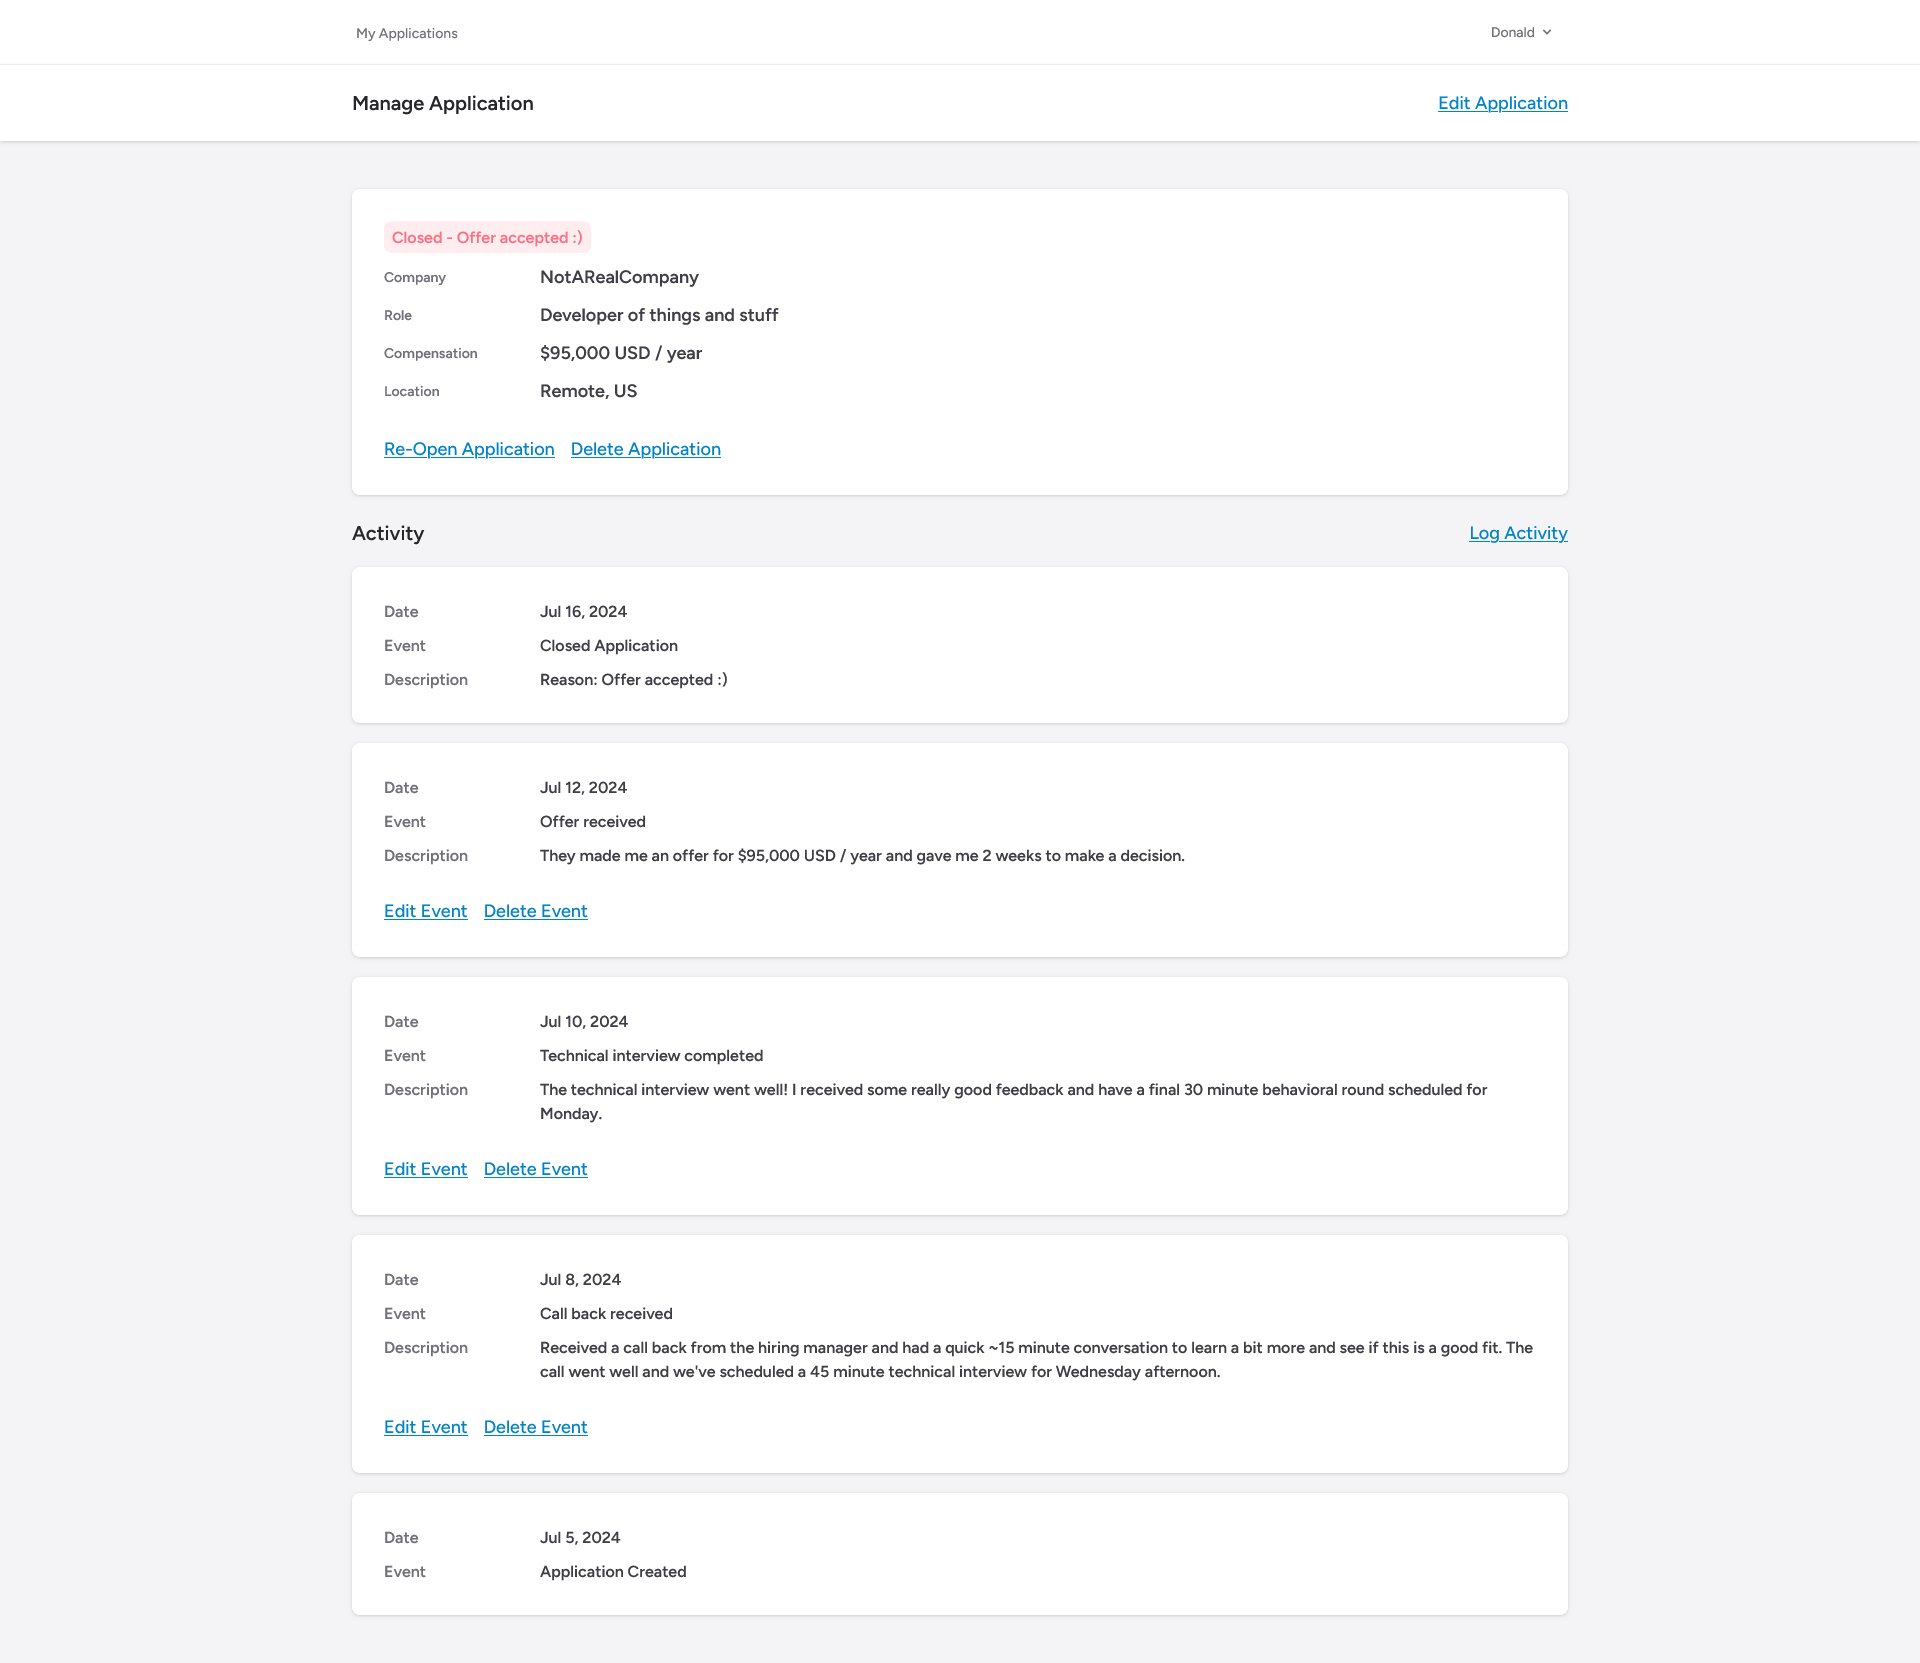
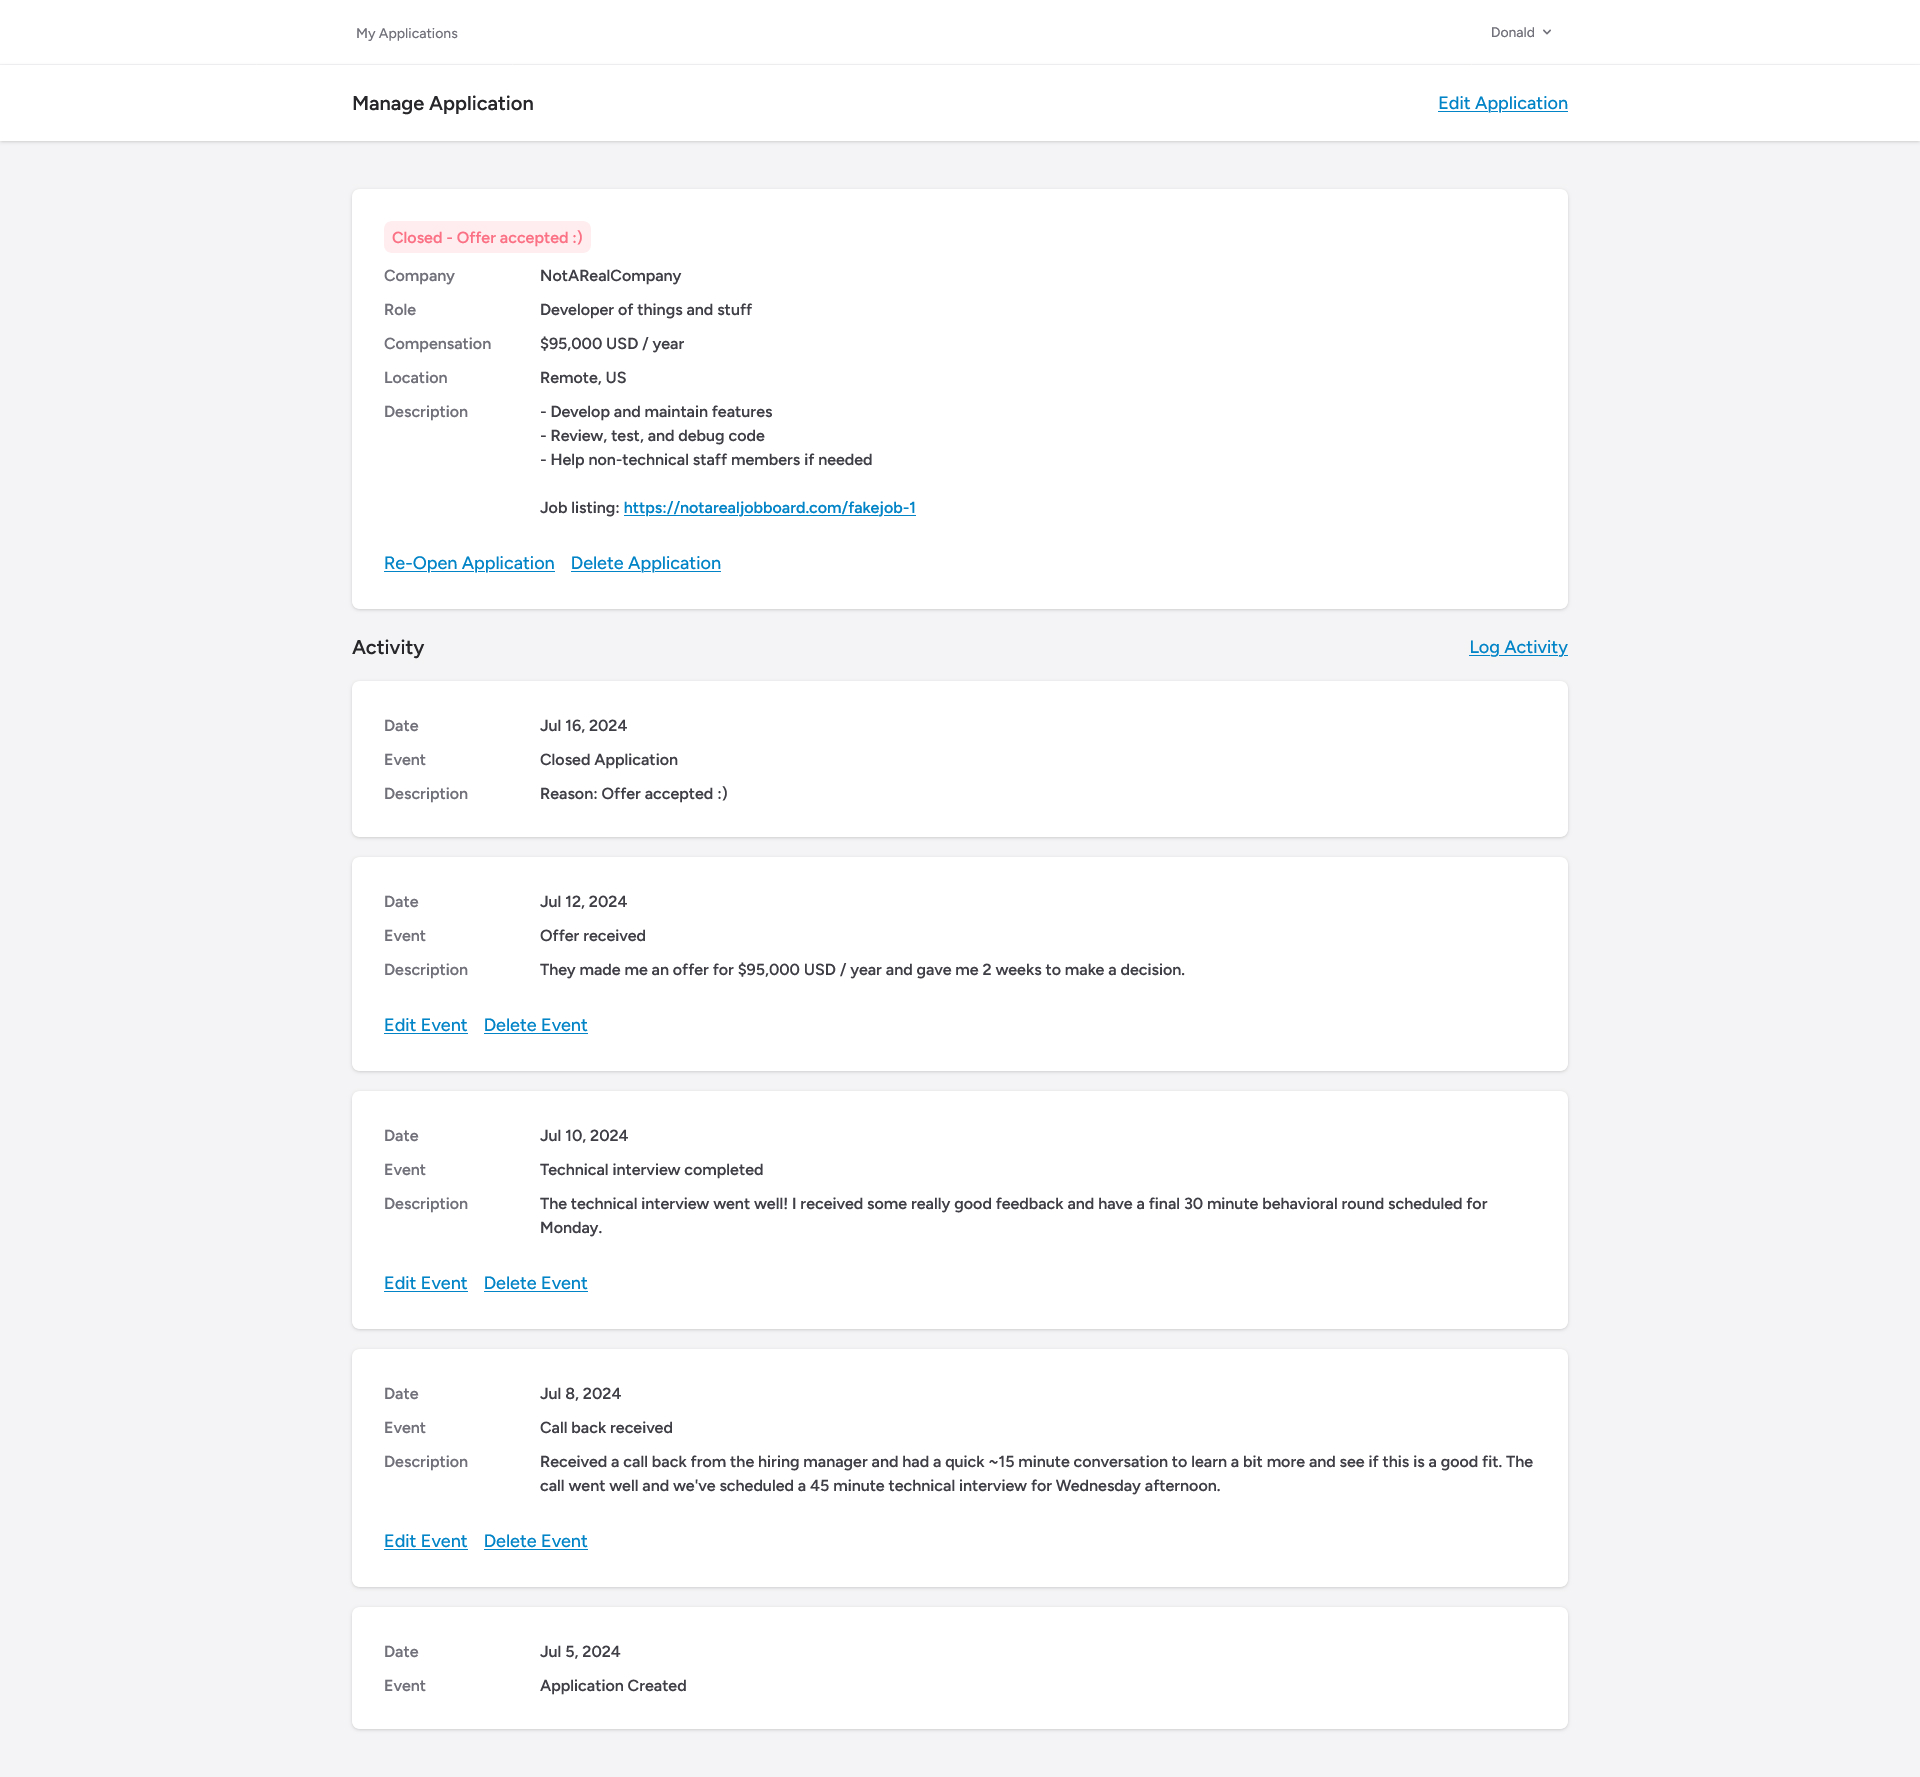
Add description field to Application model

diff --git a/resources/views/components/application-card.blade.php b/resources/views/components/application-card.blade.php
@@ -10,22 +10,28 @@
             In Progress
         </div>
     @endif
-    <div class="flex items-center gap-4">
-        <p class="min-w-[140px] text-zinc-500 text-sm">Company</p>
-        <p class="text-zinc-700 text-lg">{{ $application->company }}</p>
+    <div class="flex items-start gap-4">
+        <p class="min-w-[140px] text-zinc-500">Company</p>
+        <p class="text-zinc-700">{{ $application->company }}</p>
     </div>
-    <div class="flex items-center gap-4">
-        <p class="min-w-[140px] text-zinc-500 text-sm">Role</p>
-        <p class="text-zinc-700 text-lg">{{ $application->role }}</p>
+    <div class="flex items-start gap-4">
+        <p class="min-w-[140px] text-zinc-500">Role</p>
+        <p class="text-zinc-700">{{ $application->role }}</p>
     </div>
-    <div class="flex items-center gap-4">
-        <p class="min-w-[140px] text-zinc-500 text-sm">Compensation</p>
-        <p class="text-zinc-700 text-lg">{{ $application->compensation }}</p>
+    <div class="flex items-start gap-4">
+        <p class="min-w-[140px] text-zinc-500">Compensation</p>
+        <p class="text-zinc-700">{{ $application->compensation }}</p>
     </div>
-    <div class="flex items-center gap-4">
-        <p class="min-w-[140px] text-zinc-500 text-sm">Location</p>
-        <p class="text-zinc-700 text-lg">{{ $application->location }}</p>
+    <div class="flex items-start gap-4">
+        <p class="min-w-[140px] text-zinc-500">Location</p>
+        <p class="text-zinc-700">{{ $application->location }}</p>
     </div>
+    @if ($application->description)
+        <div class="flex items-start gap-4">
+            <p class="min-w-[140px] text-zinc-500">Description</p>
+            <p class="text-zinc-700 whitespace-pre-line" data-extract-links>{{ $application->description }}</p>
+        </div>
+    @endif
 
     @if (!empty($links))
         <div class="flex items-center gap-4">

diff --git a/resources/views/applications/edit.blade.php b/resources/views/applications/edit.blade.php
@@ -78,6 +78,25 @@
 
                                 <x-input-error class="mt-2" :messages="$errors->get('location')" />
                             </div>
+
+                            <div>
+                                <x-input-label for="description" :value="__('Description (optional)')" />
+                                <x-textarea-input
+                                    id="description"
+                                    name="description" 
+                                    type="text" 
+                                    class="mt-1 block w-full" 
+                                    :value="old('description', $application->description)"
+                                />
+                                <p class="block font-medium text-sm text-zinc-700 mt-1">
+                                    The description fields preserves whitespace and extracts urls that match the following pattern:
+                                    <span class="bg-zinc-300 rounded-md px-2 inline-block text-zinc-900">
+                                        http://&lt;text&gt;, https://&lt;text&gt;
+                                    </span>
+                                </p>
+
+                                <x-input-error class="mt-2" :messages="$errors->get('description')" />
+                            </div>
                     
                             <div class="flex items-center gap-4">
                                 <x-primary-button>{{ __('Save Application') }}</x-primary-button>

diff --git a/resources/views/applications/create.blade.php b/resources/views/applications/create.blade.php
@@ -77,6 +77,25 @@
 
                                 <x-input-error class="mt-2" :messages="$errors->get('location')" />
                             </div>
+
+                            <div>
+                                <x-input-label for="description" :value="__('Description (optional)')" />
+                                <x-textarea-input
+                                    id="description"
+                                    name="description" 
+                                    type="text" 
+                                    class="mt-1 block w-full" 
+                                    :value="old('description')"
+                                />
+                                <p class="block font-medium text-sm text-zinc-700 mt-1">
+                                    The description fields preserves whitespace and extracts urls that match the following pattern:
+                                    <span class="bg-zinc-300 rounded-md px-2 inline-block text-zinc-900">
+                                        http://&lt;text&gt;, https://&lt;text&gt;
+                                    </span>
+                                </p>
+
+                                <x-input-error class="mt-2" :messages="$errors->get('description')" />
+                            </div>
                     
                             <div class="flex items-center gap-4">
                                 <x-primary-button>{{ __('Save Application') }}</x-primary-button>

diff --git a/resources/views/applications/events/edit.blade.php b/resources/views/applications/events/edit.blade.php
@@ -46,6 +46,12 @@
                                     class="mt-1 block w-full" 
                                     :value="old('description', $event->description)"
                                 />
+                                <p class="block font-medium text-sm text-zinc-700 mt-1">
+                                    The description fields preserves whitespace and extracts urls that match the following pattern:
+                                    <span class="bg-zinc-300 rounded-md px-2 inline-block text-zinc-900">
+                                        http://&lt;text&gt;, https://&lt;text&gt;
+                                    </span>
+                                </p>
 
                                 <x-input-error class="mt-2" :messages="$errors->get('description')" />
                             </div>

diff --git a/resources/views/applications/events/create.blade.php b/resources/views/applications/events/create.blade.php
@@ -45,6 +45,12 @@
                                     class="mt-1 block w-full" 
                                     :value="old('description')"
                                 />
+                                <p class="block font-medium text-sm text-zinc-700 mt-1">
+                                    The description fields preserves whitespace and extracts urls that match the following pattern:
+                                    <span class="bg-zinc-300 rounded-md px-2 inline-block text-zinc-900">
+                                        http://&lt;text&gt;, https://&lt;text&gt;
+                                    </span>
+                                </p>
 
                                 <x-input-error class="mt-2" :messages="$errors->get('description')" />
                             </div>

diff --git a/app/Http/Controllers/ApplicationEventController.php b/app/Http/Controllers/ApplicationEventController.php
@@ -29,7 +29,7 @@ class ApplicationEventController extends Controller
 
         $validated = $request->validate([
             'title' => ['required', 'string', 'max:255'],
-            'description' => ['nullable', 'string', 'max:20000'], // research TEXT max
+            'description' => ['nullable', 'string', 'max:30000'],
         ]);
 
         $event = $application->events()->make($validated);
@@ -64,7 +64,7 @@ class ApplicationEventController extends Controller
 
         $validated = $request->validate([
             'title' => ['required', 'string', 'max:255'],
-            'description' => ['nullable', 'string', 'max:20000'],
+            'description' => ['nullable', 'string', 'max:30000'],
         ]);
 
         $event->update($validated);

diff --git a/database/migrations/2024_07_18_181817_add_description_to_applications_table.php b/database/migrations/2024_07_18_181817_add_description_to_applications_table.php
@@ -1,0 +1,28 @@
+<?php
+
+use Illuminate\Database\Migrations\Migration;
+use Illuminate\Database\Schema\Blueprint;
+use Illuminate\Support\Facades\Schema;
+
+return new class extends Migration
+{
+    /**
+     * Run the migrations.
+     */
+    public function up(): void
+    {
+        Schema::table('applications', function (Blueprint $table) {
+            $table->text('description')->nullable();
+        });
+    }
+
+    /**
+     * Reverse the migrations.
+     */
+    public function down(): void
+    {
+        Schema::table('applications', function (Blueprint $table) {
+            $table->dropColumn('description');
+        });
+    }
+};

diff --git a/app/Http/Requests/Applications/UpdateApplicationRequest.php b/app/Http/Requests/Applications/UpdateApplicationRequest.php
@@ -18,6 +18,7 @@ class UpdateApplicationRequest extends FormRequest
             'role' => ['sometimes', 'required', 'string', 'max:255'],
             'compensation' => ['sometimes', 'required', 'string', 'max:255'],
             'location' => ['sometimes', 'required', 'string', 'max:255'],
+            'description' => ['sometimes', 'nullable', 'string', 'max:30000']
         ];
     }
 }

diff --git a/app/Http/Requests/Applications/StoreApplicationRequest.php b/app/Http/Requests/Applications/StoreApplicationRequest.php
@@ -20,6 +20,7 @@ class StoreApplicationRequest extends FormRequest
             'role' => ['required', 'string', 'max:255'],
             'compensation' => ['required', 'string', 'max:255'],
             'location' => ['required', 'string', 'max:255'],
+            'description' => ['nullable', 'string', 'max:30000']
         ];
     }
 }

diff --git a/app/Models/Application.php b/app/Models/Application.php
@@ -22,6 +22,7 @@ class Application extends Model
         'role',
         'compensation',
         'location',
+        'description'
     ];
 
     /**
